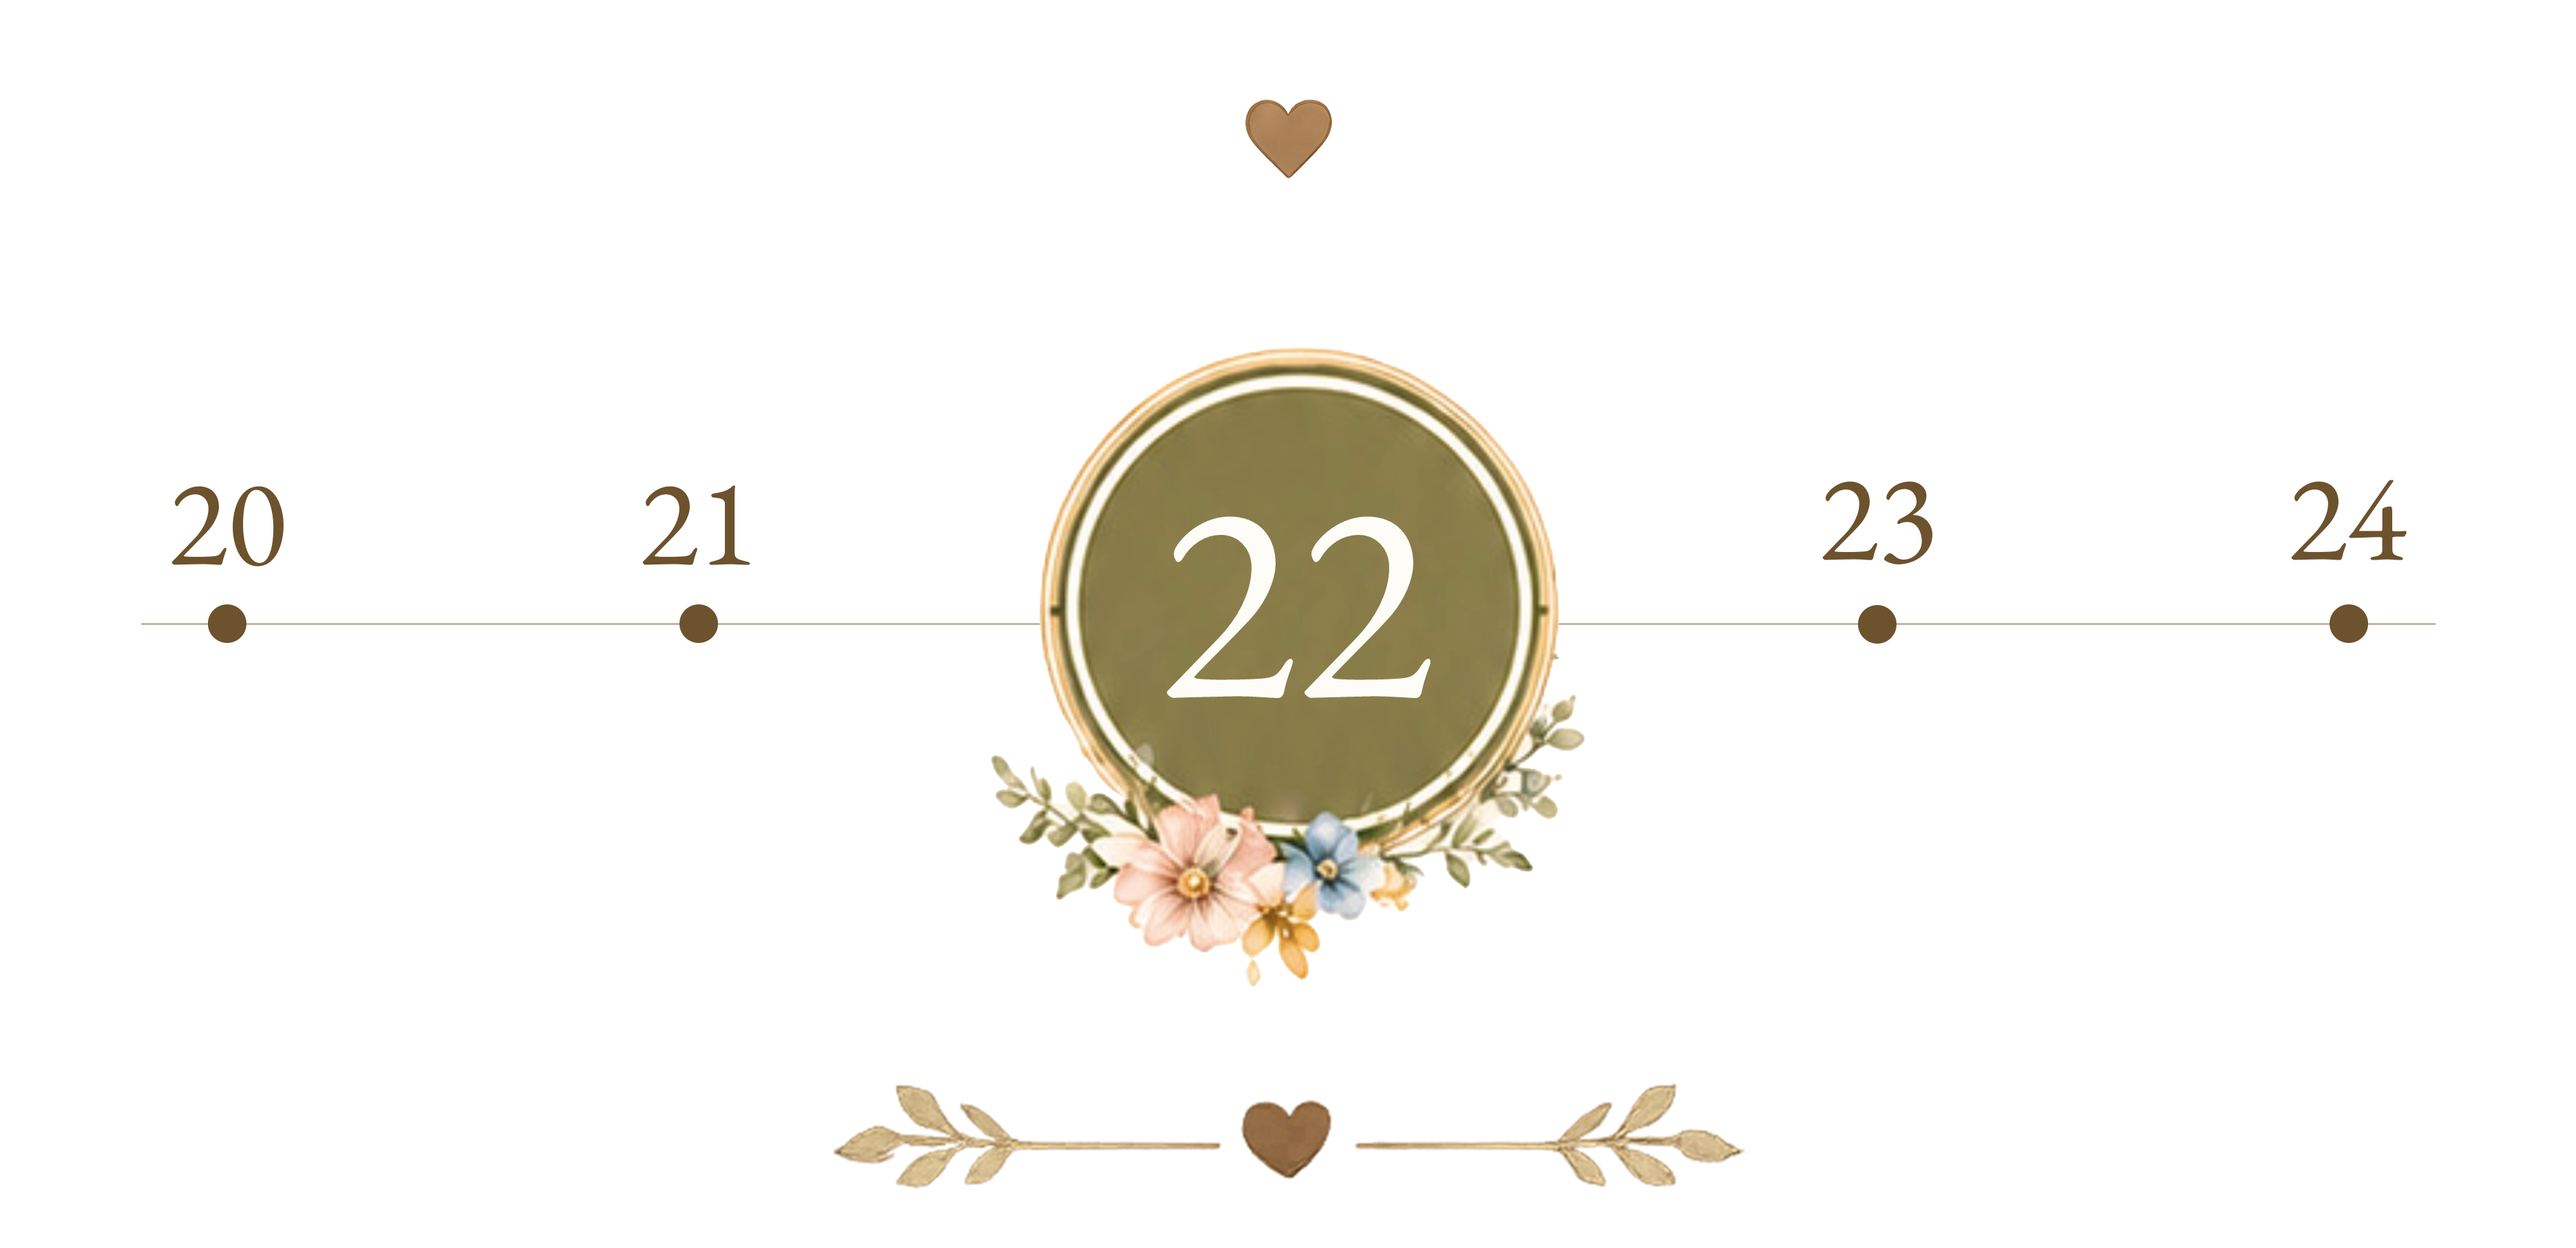
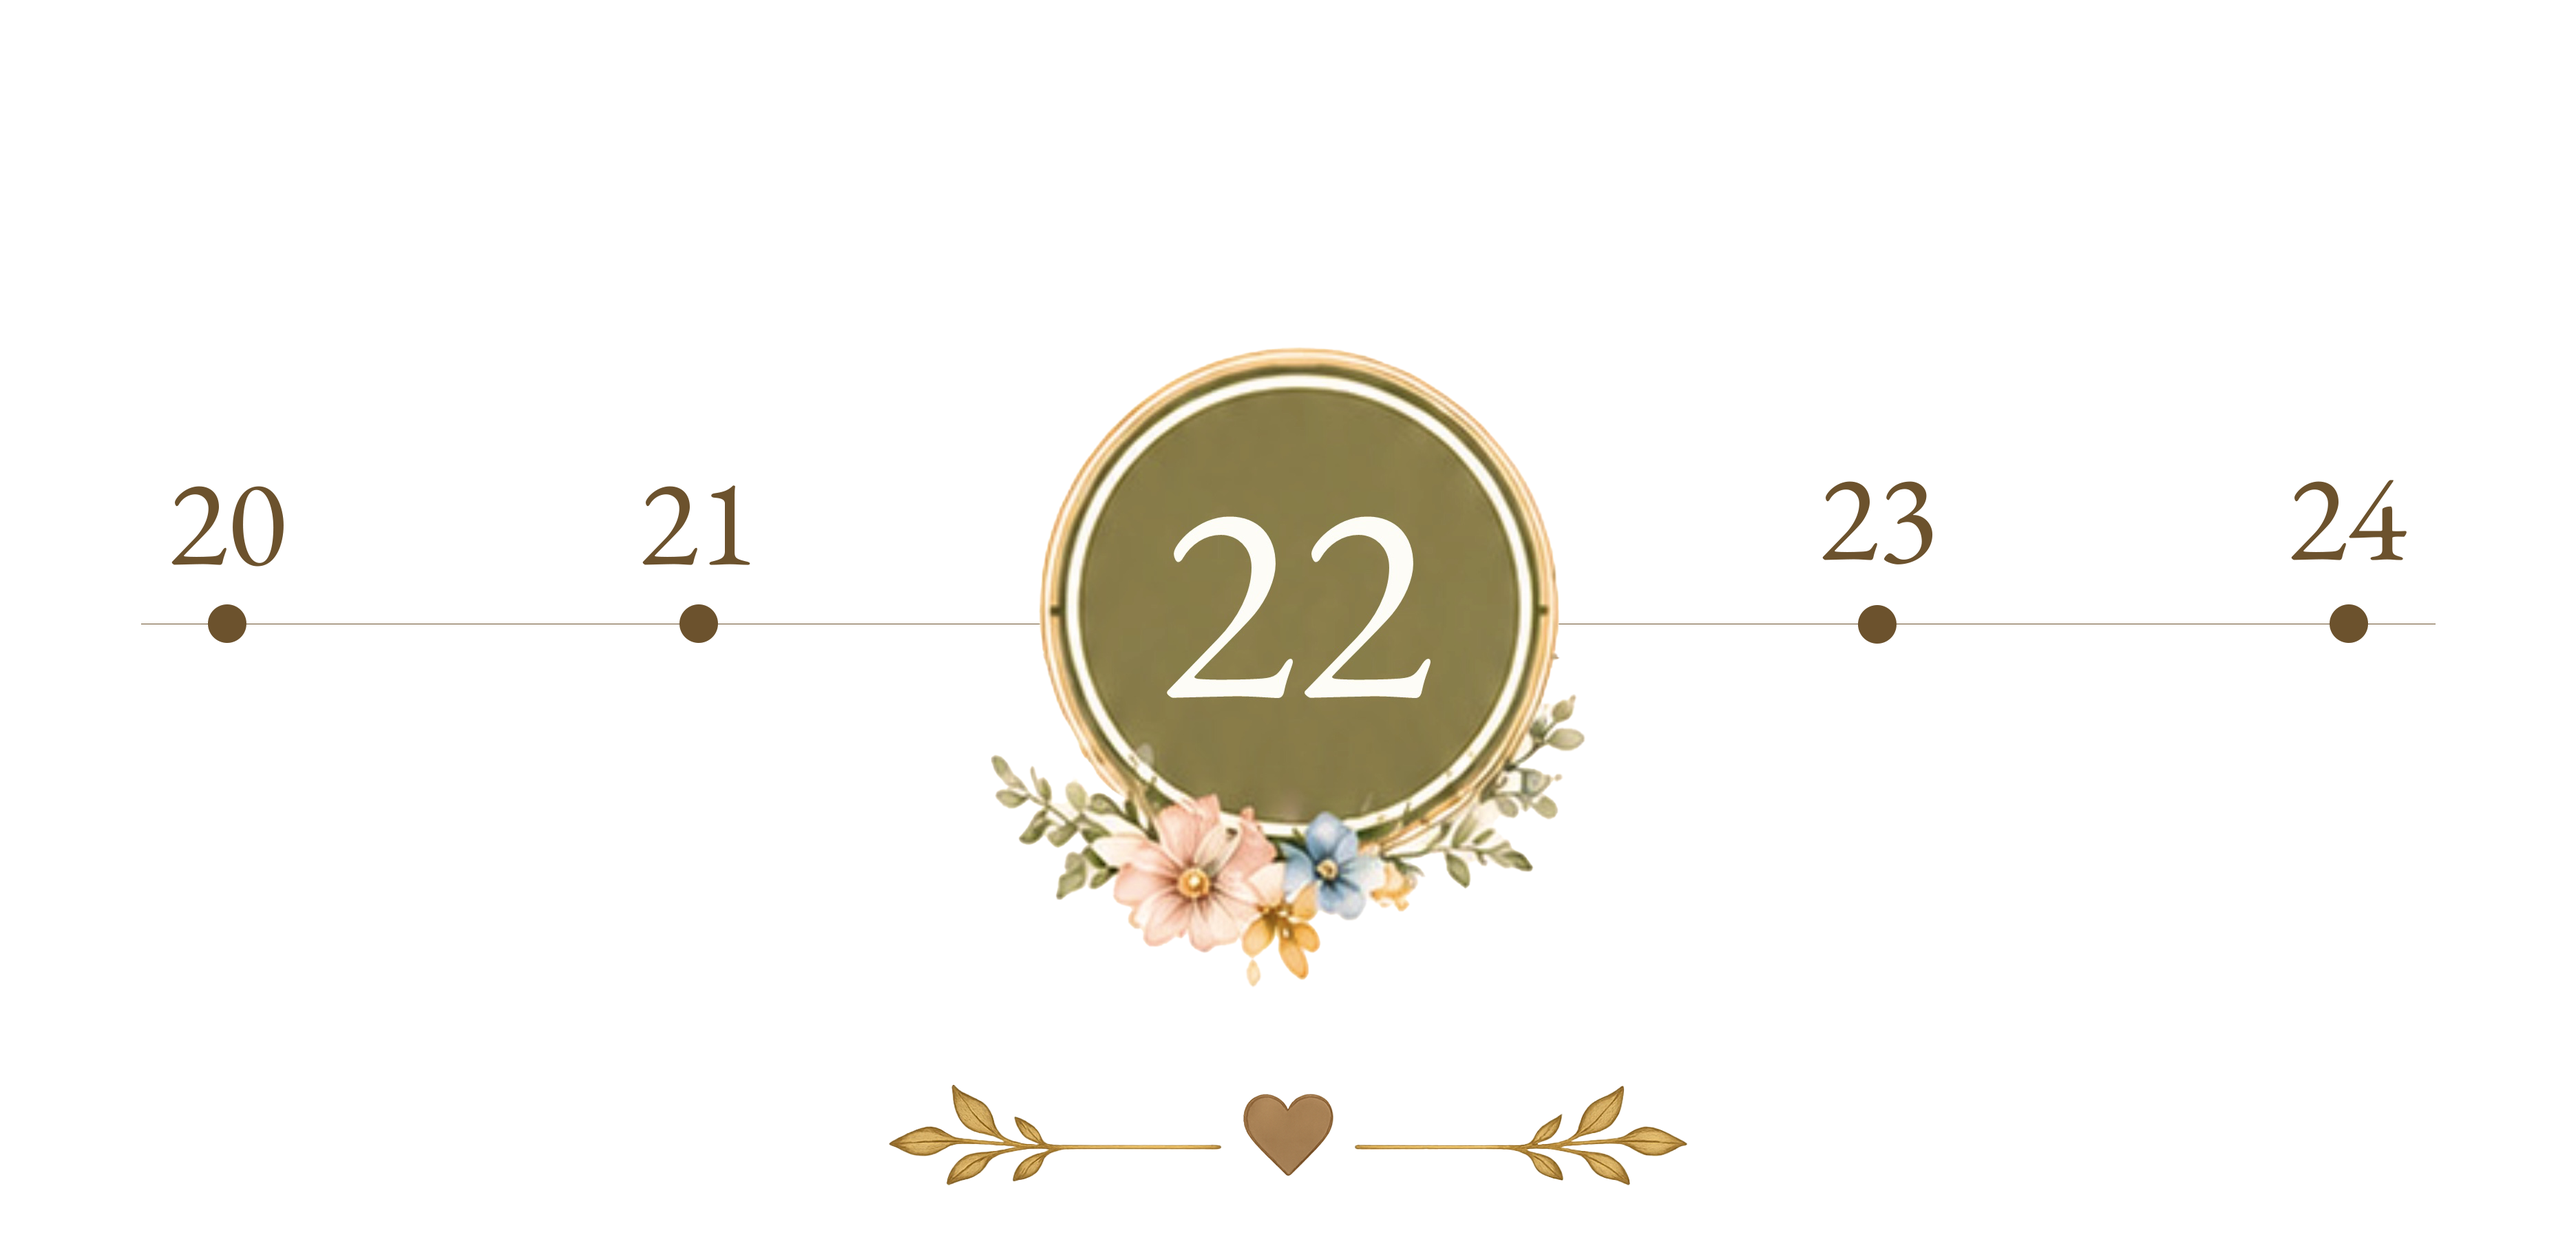
Add files via upload

Changed region(s): [[0.31, 0.8649, 0.682, 0.9575], [0.465, 0.0618, 0.527, 0.1544]]

diff --git a/index.html b/index.html
@@ -16,7 +16,7 @@
     <h1 class="hero-names"><span class="serif">Олег</span> <span class="script">и</span> <span class="serif">Настя</span></h1>
 
     <div class="hero-stage">
-      <img class="hero-photo" src="картинки_1_блока/молодожены.jpg" alt="Олег и Настя">
+      <img class="hero-photo" src="картинки_1_блока/молодожены.png" alt="Олег и Настя">
       <img class="hero-side hero-side--left" src="картинки_1_блока/первая страница левый бок.png" alt="">
       <img class="hero-side hero-side--right" src="картинки_1_блока/первая страница правый бок.png" alt="">
 
@@ -29,11 +29,10 @@
 
   <div class="container hero-text">
     <p class="eyebrow">ЛЮБИМЫЕ НАШИ</p>
-    <p>родные и близкие</p>
-    <p>мы долго ждали этого момента,</p>
+    <p>родные и близкие,</p>
+    <p>мы давно ждали момента,</p>
     <p>когда вместе с вами сможем прожить</p>
-    <p>один из самых важных и счастливых</p>
-    <p>дней нашей жизни</p>
+    <p>этот важный и счастливый день жизни - </p>
 
     <div class="flanked">
       <img class="flank flank--left" src="картинки_1_блока/лево от текста.png" alt="">
@@ -51,12 +50,12 @@
 <!-- Блок 2. Дата и место -->
 <section class="block" id="block-2">
   <div class="container">
-    <h2 class="block-title"><span class="serif">Дата</span> <span class="script">и</span> <span class="serif">место</span></h2>
+    <h2 class="block-title"><span class="serif">Дата</span>&nbsp;<span class="script">и</span>&nbsp;<span class="serif">место</span></h2>
     <p class="script-sub">нашей свадьбы</p>
 
     <!-- <img class="heart-icon" src="картинки_2_блока/сердце.png" alt=""> -->
     <img class="date-strip" src="картинки_2_блока/дата.png" alt="22 августа">
-    <p class="script-sub">Август 2026</p>
+    <!-- <p class="script-sub">Август 2026</p> -->
     <!-- <img class="divider" src="картинки_2_блока/Полоска центр 1.png" alt=""> -->
 
     <p class="eyebrow">МЕСТО ПРОВЕДЕНИЯ</p>
@@ -69,6 +68,7 @@
     </div>
 
     <p class="address">пос. Синий Утес, 61</p>
+    <a class="map-btn" href="https://yandex.ru/maps/11353/tomsk-district/house/posyolok_siniy_utyos_61/bE0YfwRjT00OQFtsfX91cHRnZg==/?ll=84.933689%2C56.341842&z=17.11" target="_blank" rel="noopener">карта</a>
   </div>
 </section>
 
@@ -80,13 +80,13 @@
     <img class="heart-icon" src="картинки_3_блока/сердце.png" alt="">
     <img class="schedule-img" src="картинки_3_блока/расписание.png" alt="Расписание дня">
   </div>
-  <img class="bottom-flowers" src="картинки_3_блока/цветы 1.png" alt="">
+  <!-- <img class="bottom-flowers" src="картинки_3_блока/цветы 1.png" alt=""> -->
 </section>
 
 <!-- Блок 4. Дресс-код -->
 <section class="block" id="block-4">
   <div class="container" style="position: relative;">
-    <h2 class="block-title serif">Дресс-код</h2>
+    <h2 class="block-title serif">Дресс<mark>—</mark>код</h2>
     <p class="script-sub">нежное настроение</p>
     <img class="dresscode-flower" src="картинки_4_блока/цветы 2.png" alt="">
 
@@ -104,7 +104,7 @@
     <h2 class="block-title serif">Пожелания</h2>
     <p class="script-sub">с благодарностью</p>
 
-    <img class="divider" src="картинки_5_блока/Полоска центр 1.png" alt="" style="width: 176px;">
+    <img class="divider" src="картинки_5_блока/Полоска центр 1.png" alt="">
 
     <div class="wish">
       <img class="wish-icon" src="картинки_5_блока/конверт.png" alt="" style="width: 132px;">
@@ -113,7 +113,7 @@
       <p>это финансовый вклад в наши мечты!</p>
     </div>
 
-    <img class="heart-icon" src="картинки_5_блока/сердце.png" alt="">
+    <!-- <img class="heart-icon" src="картинки_5_блока/сердце.png" alt=""> -->
 
     <div class="wish">
       <img class="wish-icon" src="картинки_5_блока/букет.png" alt="">
@@ -129,7 +129,7 @@
   <div class="container">
     <img class="corner-flower corner-flower--top-left-cw" src="картинки_6_блока/цветы 5.png" alt="">
 
-    <h2 class="block-title serif">Мы ждем вас!</h2>
+    <h2 class="block-title serif">Мы&nbsp;ждем&nbsp;вас!</h2>
     <p class="script-sub">через...</p>
 
     <div class="countdown" id="countdown">
@@ -144,15 +144,29 @@
     <p class="eyebrow">ПРОСИМ ВАС ПОДТВЕРДИТЬ ПРИСУТСТВИЕ</p>
     <p class="script-sub script-sub--tight">до 08.08.26</p>
 
-    <p>Совсем скоро мы создадим общий чат,</p>
-    <p>где будем рассказывать самую важную информацию</p>
-    <p>По любым вопросам вы можете обратиться к нашим организаторам:</p>
+    <p>
+      Совсем скоро мы создадим общий чат,
+      <br>
+      где будем рассказывать самую важную информацию
+      <br>
+      По любым вопросам вы можете обратиться к нашим организаторам:
+    </p>
 
-    <p class="organizer">Алина — <a href="tel:+79991779152">+7 999 177 91 52</a></p>
-    <p class="organizer">Александра — <a href="tel:+79138680062">+7 913 868 00 62</a></p>
+    <div class="organizers">
+      <p class="organizer">Алина — <a href="tel:+79991779152">8 999 177 91 52</a></p>
+      <p class="organizer">Александра — <a href="tel:+79138680062">8 913 868 00 62</a></p>
+    </div>
   </div>
   <img class="bottom-flowers" src="картинки_6_блока/цветы 7.png" alt="">
 </section>
+
+<!-- Map modal -->
+<div class="map-modal" id="map-modal" aria-hidden="true" role="dialog" aria-label="Карта">
+  <div class="map-modal__inner">
+    <button class="map-modal__close" id="map-modal-close" aria-label="Закрыть">✕</button>
+    <div id="ymap"></div>
+  </div>
+</div>
 
 <script src="js/script.js"></script>
 </body>

diff --git a/css/style.css b/css/style.css
@@ -122,19 +122,29 @@ a {
   transform: translateY(0);
 }
 
+.block-title mark {
+  font-family: serif;
+  background-color: transparent;
+  color: var(--ink);
+  font-size: 14px;
+  vertical-align: text-top;
+  display: inline-block;
+  margin-top: 20px;
+}
 .block-title {
   font-family: "Cormorant Garamond", serif;
-  font-weight: 600;
-  font-size: clamp(42px, 11vw, 56px);
+  font-weight: 400;
+  font-size: 48px;
   color: var(--ink);
+  text-transform: uppercase;
 }
 
 .script-sub {
   font-family: "Marianna", cursive;
   font-weight: 400;
-  font-size: clamp(26px, 7vw, 34px);
+  font-size: 48px;
   color: var(--ink);
-  margin-top: 2px;
+  margin-top: -34px;
   margin-bottom: 28px;
 }
 
@@ -156,12 +166,12 @@ a {
 }
 
 .heart-icon {
-  width: 28px;
+  width: 20px;
   margin: 18px auto;
 }
 
 .divider {
-  width: 220px;
+  width: 109px;
   margin: 24px auto;
 }
 
@@ -200,8 +210,14 @@ p {
   z-index: 5;
   text-align: center;
   color: var(--ink);
-  font-size: clamp(38px, 11vw, 54px);
-  font-weight: 600;
+  font-size: 54px;
+  font-weight: 400;
+  text-transform: uppercase;
+}
+
+.hero-names .script,
+.block-title .script {
+  text-transform: none;
 }
 
 .hero-side {
@@ -343,7 +359,7 @@ p {
 .date-strip {
   width: 100%;
   max-width: 380px;
-  margin: 8px auto 0;
+  margin: -52px auto 0;
 }
 
 .venue-name {
@@ -384,6 +400,70 @@ p {
   letter-spacing: 0.02em;
 }
 
+.map-btn {
+  display: inline-block;
+  margin-top: 16px;
+  padding: 10px 32px;
+  border: 1px solid var(--ink);
+  border-radius: 2px;
+  font-family: "EB Garamond", serif;
+  font-size: 16px;
+  letter-spacing: 0.08em;
+  text-transform: uppercase;
+  color: var(--ink);
+  text-decoration: none;
+  cursor: pointer;
+}
+
+.map-modal {
+  display: none;
+  position: fixed;
+  inset: 0;
+  background: rgba(0, 0, 0, 0.55);
+  z-index: 200;
+  align-items: center;
+  justify-content: center;
+  padding: 20px;
+}
+
+.map-modal.is-open {
+  display: flex;
+}
+
+.map-modal__inner {
+  position: relative;
+  width: 100%;
+  max-width: 520px;
+  border-radius: 6px;
+  overflow: hidden;
+  box-shadow: 0 8px 32px rgba(0, 0, 0, 0.3);
+}
+
+#ymap {
+  width: 100%;
+  height: 420px;
+  display: block;
+}
+
+.map-modal__close {
+  position: absolute;
+  top: 10px;
+  right: 10px;
+  z-index: 10;
+  width: 32px;
+  height: 32px;
+  background: var(--bg);
+  border: none;
+  border-radius: 50%;
+  font-size: 16px;
+  color: var(--ink);
+  cursor: pointer;
+  display: flex;
+  align-items: center;
+  justify-content: center;
+  line-height: 1;
+}
+
 /* ====== Block 3: Timing ====== */
 
 .schedule-img {
@@ -396,7 +476,7 @@ p {
 .bottom-flowers {
   width: 100%;
   max-width: 320px;
-  margin: -8px auto 0;
+  margin: 24px auto 0;
 }
 
 /* ====== Block 4: Dress code ====== */
@@ -434,16 +514,17 @@ p {
 }
 
 .corner-flower--top-left {
-  top: -55px;
-  left: 0px;
+  top: -27px;
+  left: -2px;
+  width: 72px;
   transform: rotate(45deg);
 }
 
 .corner-flower--top-left-cw {
-  top: 16px;
-  left: -16px;
+  top: 4px;
+  left: -28px;
   transform: rotate(90deg);
-  width: 130px;
+  width: 100px;
 }
 
 .wish {
@@ -488,8 +569,17 @@ p {
   text-transform: uppercase;
 }
 
+.organizers {
+  width: fit-content;
+  display: flex;
+  flex-direction: column;
+  justify-content: flex-start;
+  margin: 0 auto;
+}
+
 .organizer {
   margin-top: 10px;
+  width: fit-content;
 }
 
 .organizer a {

diff --git a/js/script.js b/js/script.js
@@ -154,4 +154,71 @@
 
   updateCountdown();
   setInterval(updateCountdown, 1000);
+
+  /* ====== Map modal ====== */
+
+  var mapBtn = document.querySelector(".map-btn");
+  var mapModal = document.getElementById("map-modal");
+  var mapModalClose = document.getElementById("map-modal-close");
+  var mapInited = false;
+  var ymapInstance = null;
+
+  function openMapModal(e) {
+    e.preventDefault();
+    mapModal.classList.add("is-open");
+    mapModal.setAttribute("aria-hidden", "false");
+    if (!mapInited) {
+      mapInited = true;
+      loadYandexMaps(initYMap);
+    } else if (ymapInstance) {
+      ymapInstance.container.fitToViewport();
+    }
+  }
+
+  function closeMapModal() {
+    mapModal.classList.remove("is-open");
+    mapModal.setAttribute("aria-hidden", "true");
+  }
+
+  mapBtn.addEventListener("click", openMapModal);
+  mapModalClose.addEventListener("click", closeMapModal);
+  mapModal.addEventListener("click", function (e) {
+    if (e.target === mapModal) closeMapModal();
+  });
+  document.addEventListener("keydown", function (e) {
+    if (e.key === "Escape") closeMapModal();
+  });
+
+  function loadYandexMaps(callback) {
+    var script = document.createElement("script");
+    script.src = "https://api-maps.yandex.ru/2.1/?apikey=14252a93-deba-4120-84a9-2bffaa80cf4c&lang=ru_RU";
+    script.onload = callback;
+    document.head.appendChild(script);
+  }
+
+  function initYMap() {
+    ymaps.ready(function () {
+      var coords = [56.341842, 84.933689];
+      ymapInstance = new ymaps.Map("ymap", {
+        center: coords,
+        zoom: 16,
+        controls: ["zoomControl", "fullscreenControl"]
+      });
+
+      var placemark = new ymaps.Placemark(coords, {
+        balloonContentHeader: "Гостевой комплекс «Утес»",
+        balloonContentBody: "пос. Синий Утес, 61"
+      }, {
+        preset: "islands#redDotIconWithCaption",
+        iconCaption: "Гостевой комплекс «Утес»"
+      });
+
+      ymapInstance.geoObjects.add(placemark);
+      placemark.balloon.open();
+    });
+  }
+
+  window.addEventListener("resize", function () {
+    if (ymapInstance) ymapInstance.container.fitToViewport();
+  });
 })();
